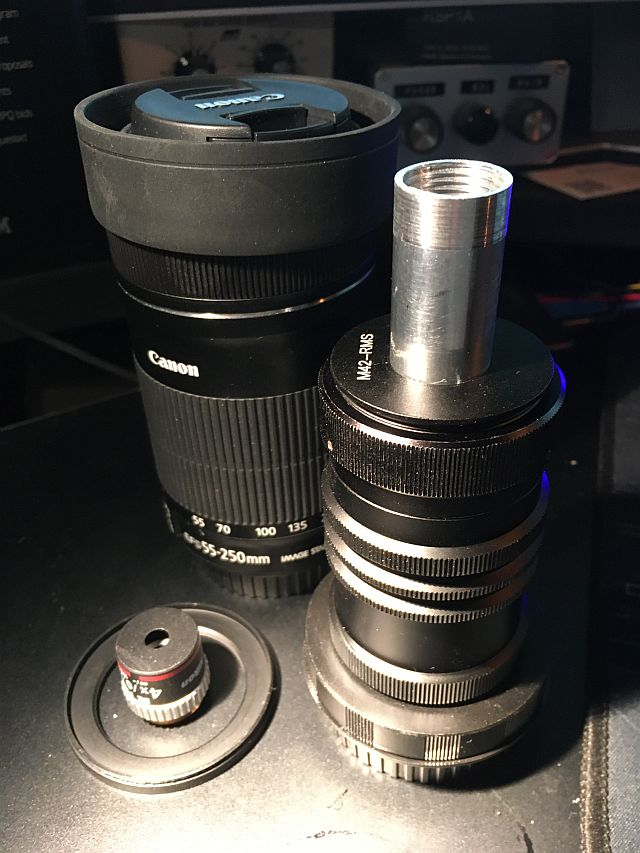
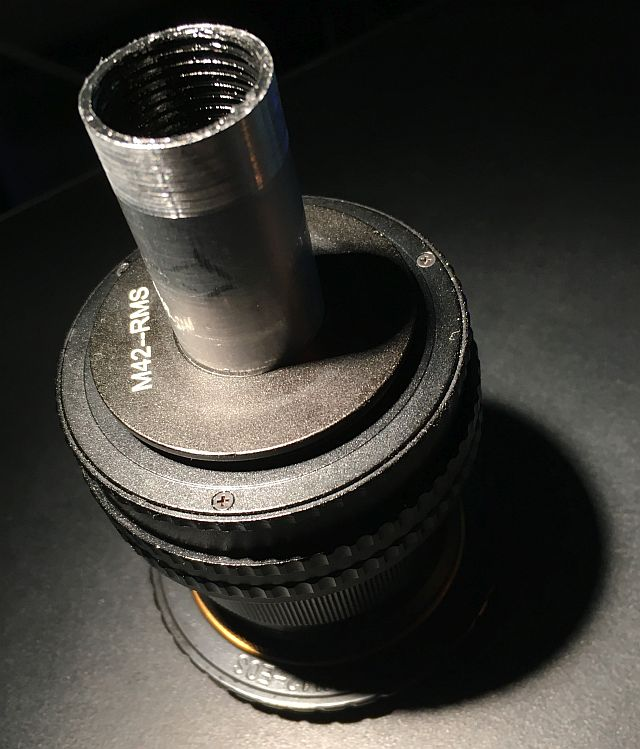
updated 36-90mm helicoid;  completed AO DIY direct photo page

diff --git a/microscope/AO/DIYphoto.htm b/microscope/AO/DIYphoto.htm
@@ -15,13 +15,15 @@ body {
 
 <h3 align=center>DIY direct projection photo tube for American Optical 10-120 trinocular microscope</h3>
 <p style="page-break-after: always;" align=center> 
-<img src="DIYphoto.jpg">
+<img src="DIYphoto.jpg"><br clear=all>
+This is not literally direct projection, since AO infinity objectives require a tube lens,<br>
+located at the head's flange, to focus images.
 </p><p style="page-break-after: always;"> 
 <table border=0><tr><td>
 While the <a href="../PhotoStar.htm">restomod PhotoStar</a> has decent image quality,<br>
 it over-magnifies, stignifcantly cropping compared to oculars.
 Also, since AO tube lens at the trinocular head entrance
-mostly correct AO objective aberrations, direct focus on a camera sensor should make good images.</td>
+mostly correct AO objective aberrations, direct focus on a camera sensor should yield good images.</td>
 <td><img src="PhotoStar.jpg"></td></tr></table>
 </p><p style="page-break-after: always;">
 <table border=0><tr><td>
@@ -46,7 +48,7 @@ torque for cutting 20mm threads.
 <table border=0><tr><td>
 <img src="done.jpg">
 </td><td>
-About 6 threads suffice to fully screw thru M42-RMS step-down ring depth.
+About six M20x0.75 threads suffice to fully screw the tube thru an M42-RMS step-down ring.
 Since this is is not a perfect fit, and a relatively heavy and expensive camera is to be supported,
 JB Weld will be applied to both threads before final assembly, and matte black acrylic paint
 will be applied to internal 18mm threads and tube ends.
@@ -67,13 +69,35 @@ Another M42-RMS step-down ring is on order to replace the one borrowed from 4x o
 </td></tr></table>
 </p><p style="page-break-after: always;">
 <table border=0><tr><td>
-Stacked M42 extension tubes and EF adapter to approximate tube lens focal distance,
-roughly accounting for Canon EF flange-to sensor-distance.  Parfocality will want an M42 focusing helicoid.<br>
+<i>21 July</i> &nbsp;
+<a href="https://www.amazon.com/dp/B01F6RZKT2">MYARTSCAPE Black Acrylic Paint</a> arrived;  
+it is glossy, NOT matte as advertised.<br>
+This paint was so thick that lumps on the tube's interior thread required
+going in after with water on the brush to smooth and spread them.<br>
+Stacked M42 extension tubes, helicoid and EF adapter to tube lens focal distance,
+accounting for Canon EF flange-to sensor-distance.<br>
 <br>
 20mm tube o.d. to AO 0.8-inch photo port i.d. slack will be reduced
 by wrapping pressure-sensitive aluminum HVAC tape on the stub.
 </td><td>
 <img src="tubes.jpg">
-</td></tr></table>
+</td></tr>
+<tr><td>
+<img src="AO120_6D1x.jpg">
+</td><td>
+<i>27 July</i> &nbsp; Unlike Optiphot direct projection,<br>
+AO 10-120 image circle does not quite fully file APS-C image sensor,<br>
+even with a 1.4x telephoto converter.<br>
+Here is that image circle unmagnified on a 35mm sensor.
+</td></tr>
+<tr><td>
+Canon's 6D is relatively intolerant of M42-EF adapters, chipped or not.<br>
+It is absolutely intolerant of those adapters with a teleconverter.<br>
+One workaround is taping teleconverter's pins;<br>
+here is 2x teleconverter on the 6D displayed by HDMI from Live View:
+</td><td>
+<img src="AO120HDMI2x.jpg">
+</td></tr>
+</table>
 </p>
 </body></html>

diff --git a/microscope/index.html b/microscope/index.html
@@ -77,6 +77,7 @@ additional lenses might be introduced, specifically to allow for e.g. vertical i
 and/or polarizing filters to be inserted into optical paths.<br>
 These optics are typically optimized for some manufacturer's objectives optical formula.<br>
 Most modern microscopes use other than RMS threads; <a href="http://www.photomacrography.net/forum/viewtopic.php?f=29&t=11710">here is a list</a>.<br>
+<a href="https://agenaastro.com/articles/guides/astronomy-threads-explained.html">Here is a list of threads used in astronomy</a>.<br>
 
 <a name="combo"><h3>Camera + Microscope Combinations</h3></a>
 <ul compact>

diff --git a/microscope/helicoid.md b/microscope/helicoid.md
@@ -12,4 +12,4 @@
 - [M42 15-26mm](https://www.ebay.com/itm/265157954014) $19.49    
 - [M42 17-31mm](https://www.ebay.com/itm/144403776548) $23.99 + 1.50  
 - [M42 25-55mm](https://www.ebay.com/itm/144401461101) $26.99  
-- [M42 36-90mm](https://www.ebay.com/itm/112597237409) $27.99 + 1.50  
+- [M42 36-90mm](https://www.ebay.com/itm/353814277200) $29.99 + 1.50  
